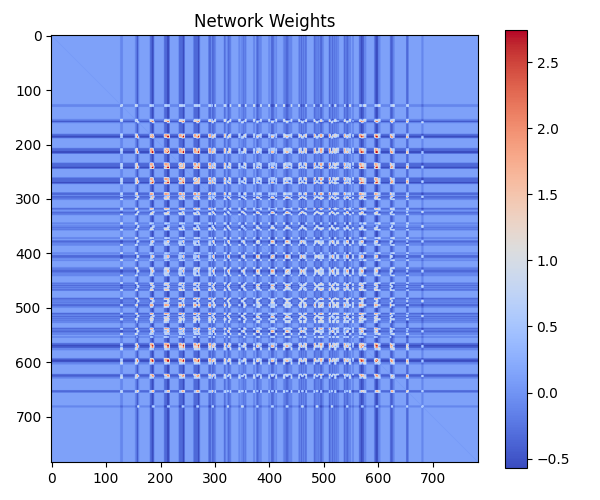
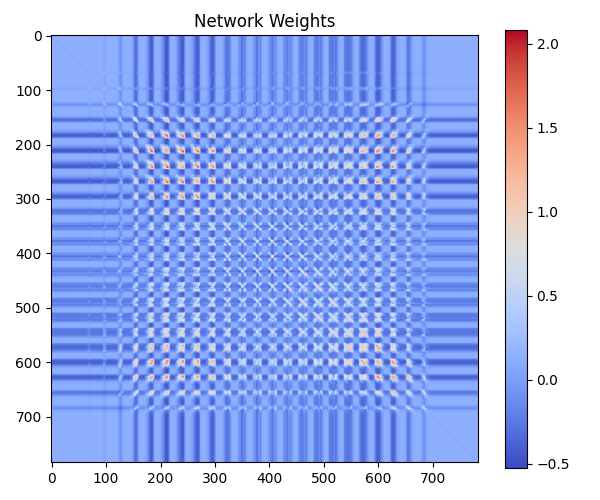
put ur comment here

diff --git a/project.py b/project.py
@@ -33,20 +33,19 @@ def reshape(data):
     data = np.reshape(data, (dim, dim))
     return data
 
-def plot(data, test, predicted, figsize=(3, 3)):
-    data = [reshape(d) for d in data]
+def plot(test, predicted, figsize=(5, 3)):
+    # data = [reshape(d) for d in data]
     test = [reshape(d) for d in test]
     predicted = [reshape(d) for d in predicted]
     
-    fig, axarr = plt.subplots(len(data), 3, figsize=figsize)
-    for i in range(len(data)):
+    fig, axarr = plt.subplots(len(test), 3, figsize=figsize)
+    for i in range(len(test)):
         if i==0:
-            axarr[i, 0].set_title('Train data')
             axarr[i, 1].set_title("Input data")
             axarr[i, 2].set_title('Output data')
             
-        axarr[i, 0].imshow(data[i])
-        axarr[i, 0].axis('off')
+        """axarr[i, 0].imshow(data[i])
+        axarr[i, 0].axis('off')"""
         axarr[i, 1].imshow(test[i])
         axarr[i, 1].axis('off')
         axarr[i, 2].imshow(predicted[i])
@@ -68,32 +67,44 @@ def preprocessing(img):
     return flatten
 
 def main():
-    # Load data
+    # Load data (60,000 test images)
     x_train = load_mnist_images(train_images_path)
     y_train = load_mnist_labels(train_labels_path)
-    data = []
-    for i in range(3):
-        xi = x_train[y_train == i]
-        data.append(xi[0])
-    
+    temp_data = []
+
+    # Define lists for selected data
+    for digit in range(3):
+        xi = x_train[y_train == digit]
+        temp_data.append(xi[:10])
+
     # Preprocessing
     print("Start to data preprocessing...")
-    data = [preprocessing(d) for d in data]
+    data = []  # Initialize an empty list to store preprocessed images
+    for arr in temp_data:
+        for img in arr:
+            preprocessed_img = preprocessing(img)
+            data.append(preprocessed_img)
+    """for arr in temp_data:
+        temp_array = np.zeros(10)
+        for idx, img in enumerate(arr):
+            preprocessed_img = preprocessing(img)
+            temp_array[idx] = preprocessed_img
+            data.append(temp_array)"""
     
     # Create Hopfield Network Model
     model = Hopfieldnetwork.HopfieldNetwork()
     model.train_weights(data)
     
-    # Make test datalist
+    # Make test datalist (5 test images, one per digit)
     test = []
     for i in range(3):
         xi = x_train[y_train==i]
         test.append(xi[1])
     test = [preprocessing(d) for d in test]
     
-    predicted = model.predict(test, threshold=50, asyn=True)
+    predicted = model.predict(test, threshold=50, asyn=False)
     print("Show prediction results...")
-    plot(data, test, predicted, figsize=(5, 5))
+    plot(test, predicted, figsize=(5, 5))
     print("Show network weights matrix...")
     model.plot_weights()
     

diff --git a/Hopfieldnetwork.py b/Hopfieldnetwork.py
@@ -8,6 +8,7 @@ class HopfieldNetwork(object):
         print("Start to train weights...")
         num_data =  len(train_data)
         self.num_neuron = train_data[0].shape[0]
+        print(self.num_neuron)
         
         # initialize weights
         W = np.zeros((self.num_neuron, self.num_neuron))
@@ -36,6 +37,7 @@ class HopfieldNetwork(object):
         
         # Define predict list
         predicted = []
+
         for i in tqdm(range(len(data))):
             predicted.append(self._run(copied_data[i]))
         return predicted
@@ -88,8 +90,7 @@ class HopfieldNetwork(object):
                 # Update energy
                 e = e_new
             return s
-    
-    
+        
     def energy(self, s):
         return -0.5 * s @ self.W @ s + np.sum(s * self.threshold)
 
